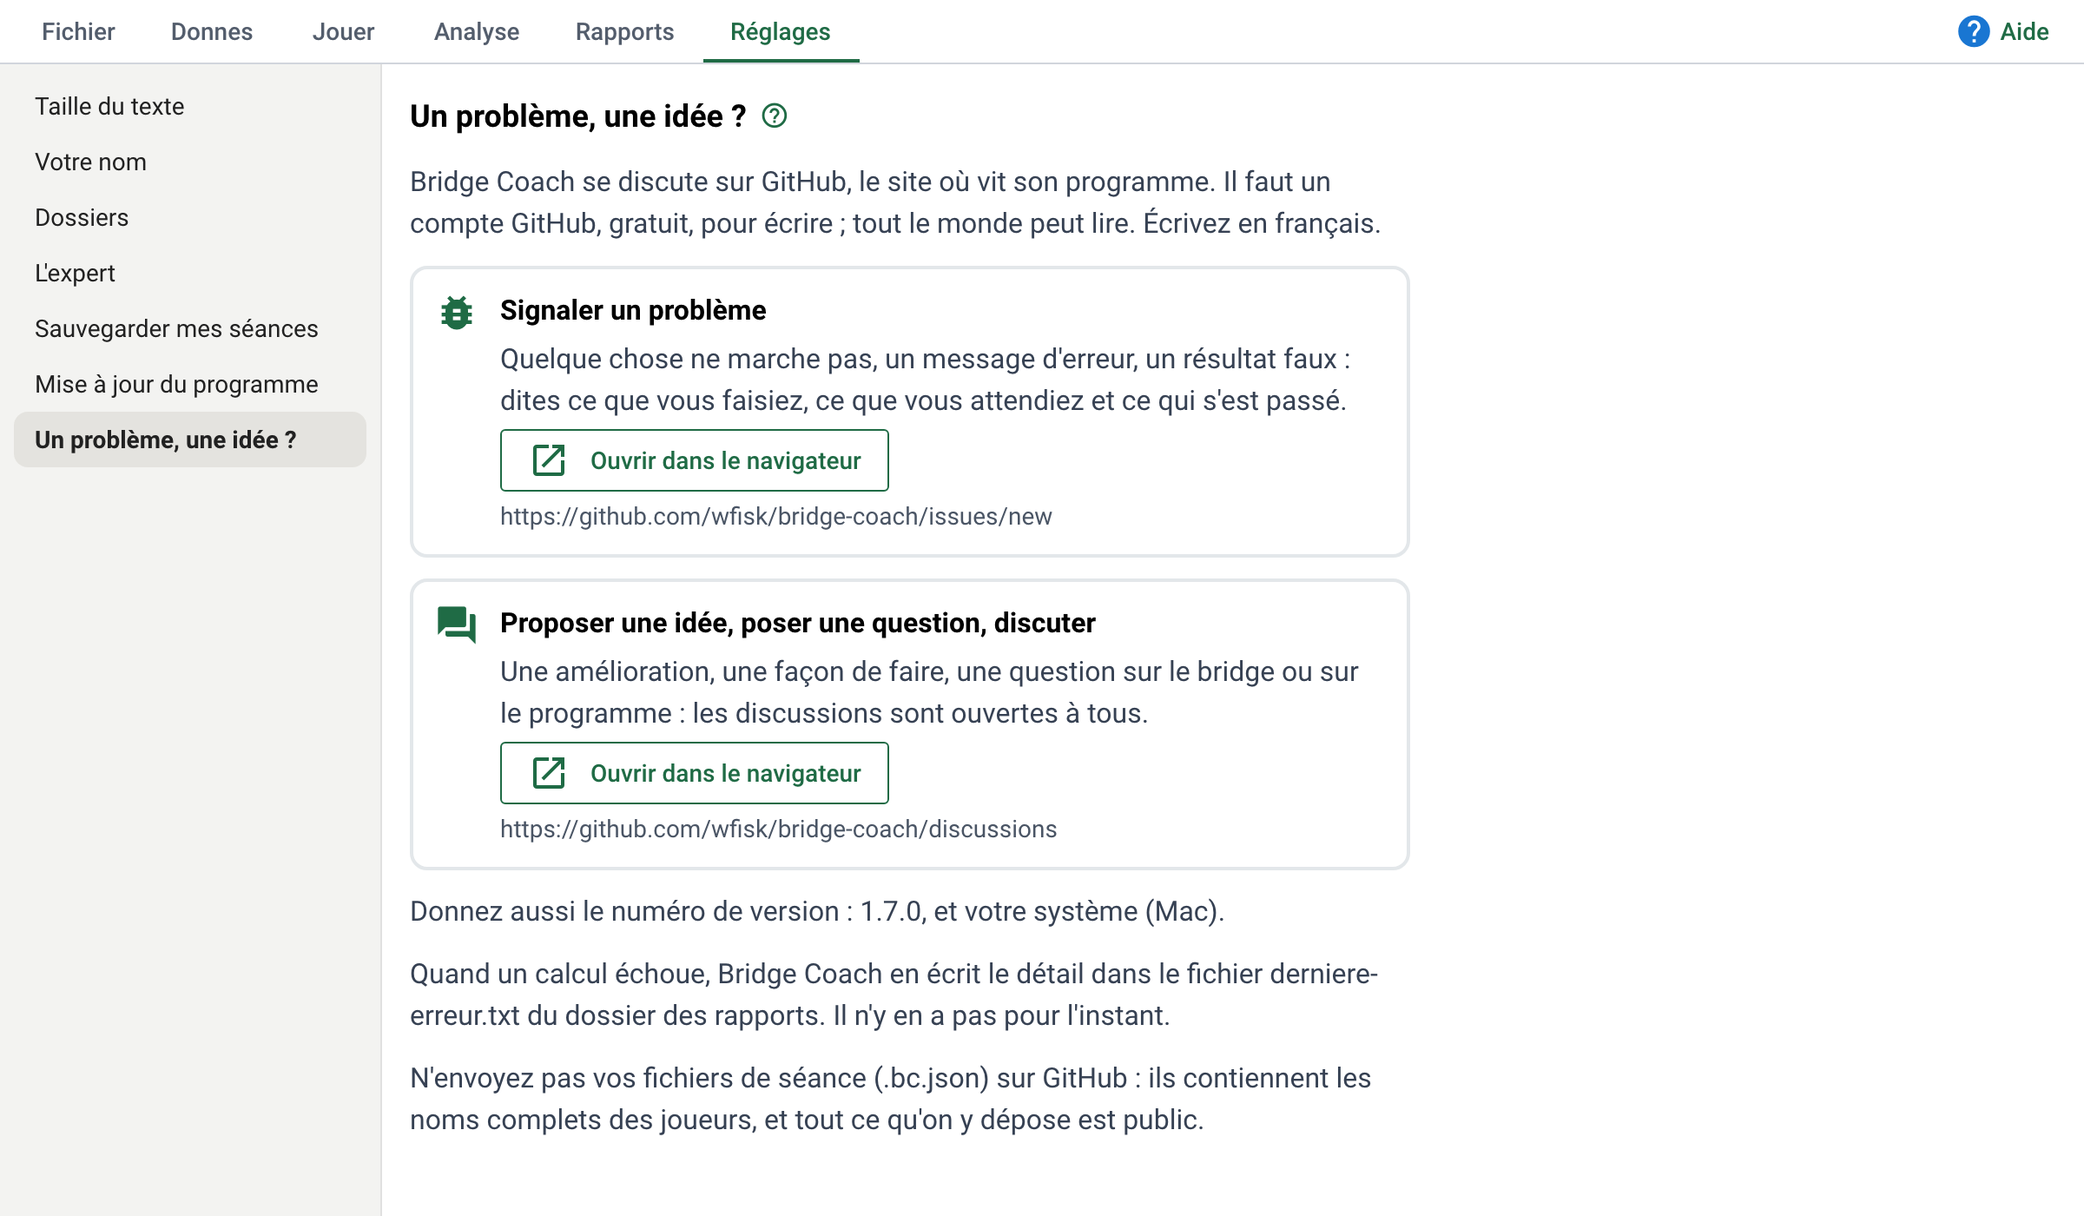
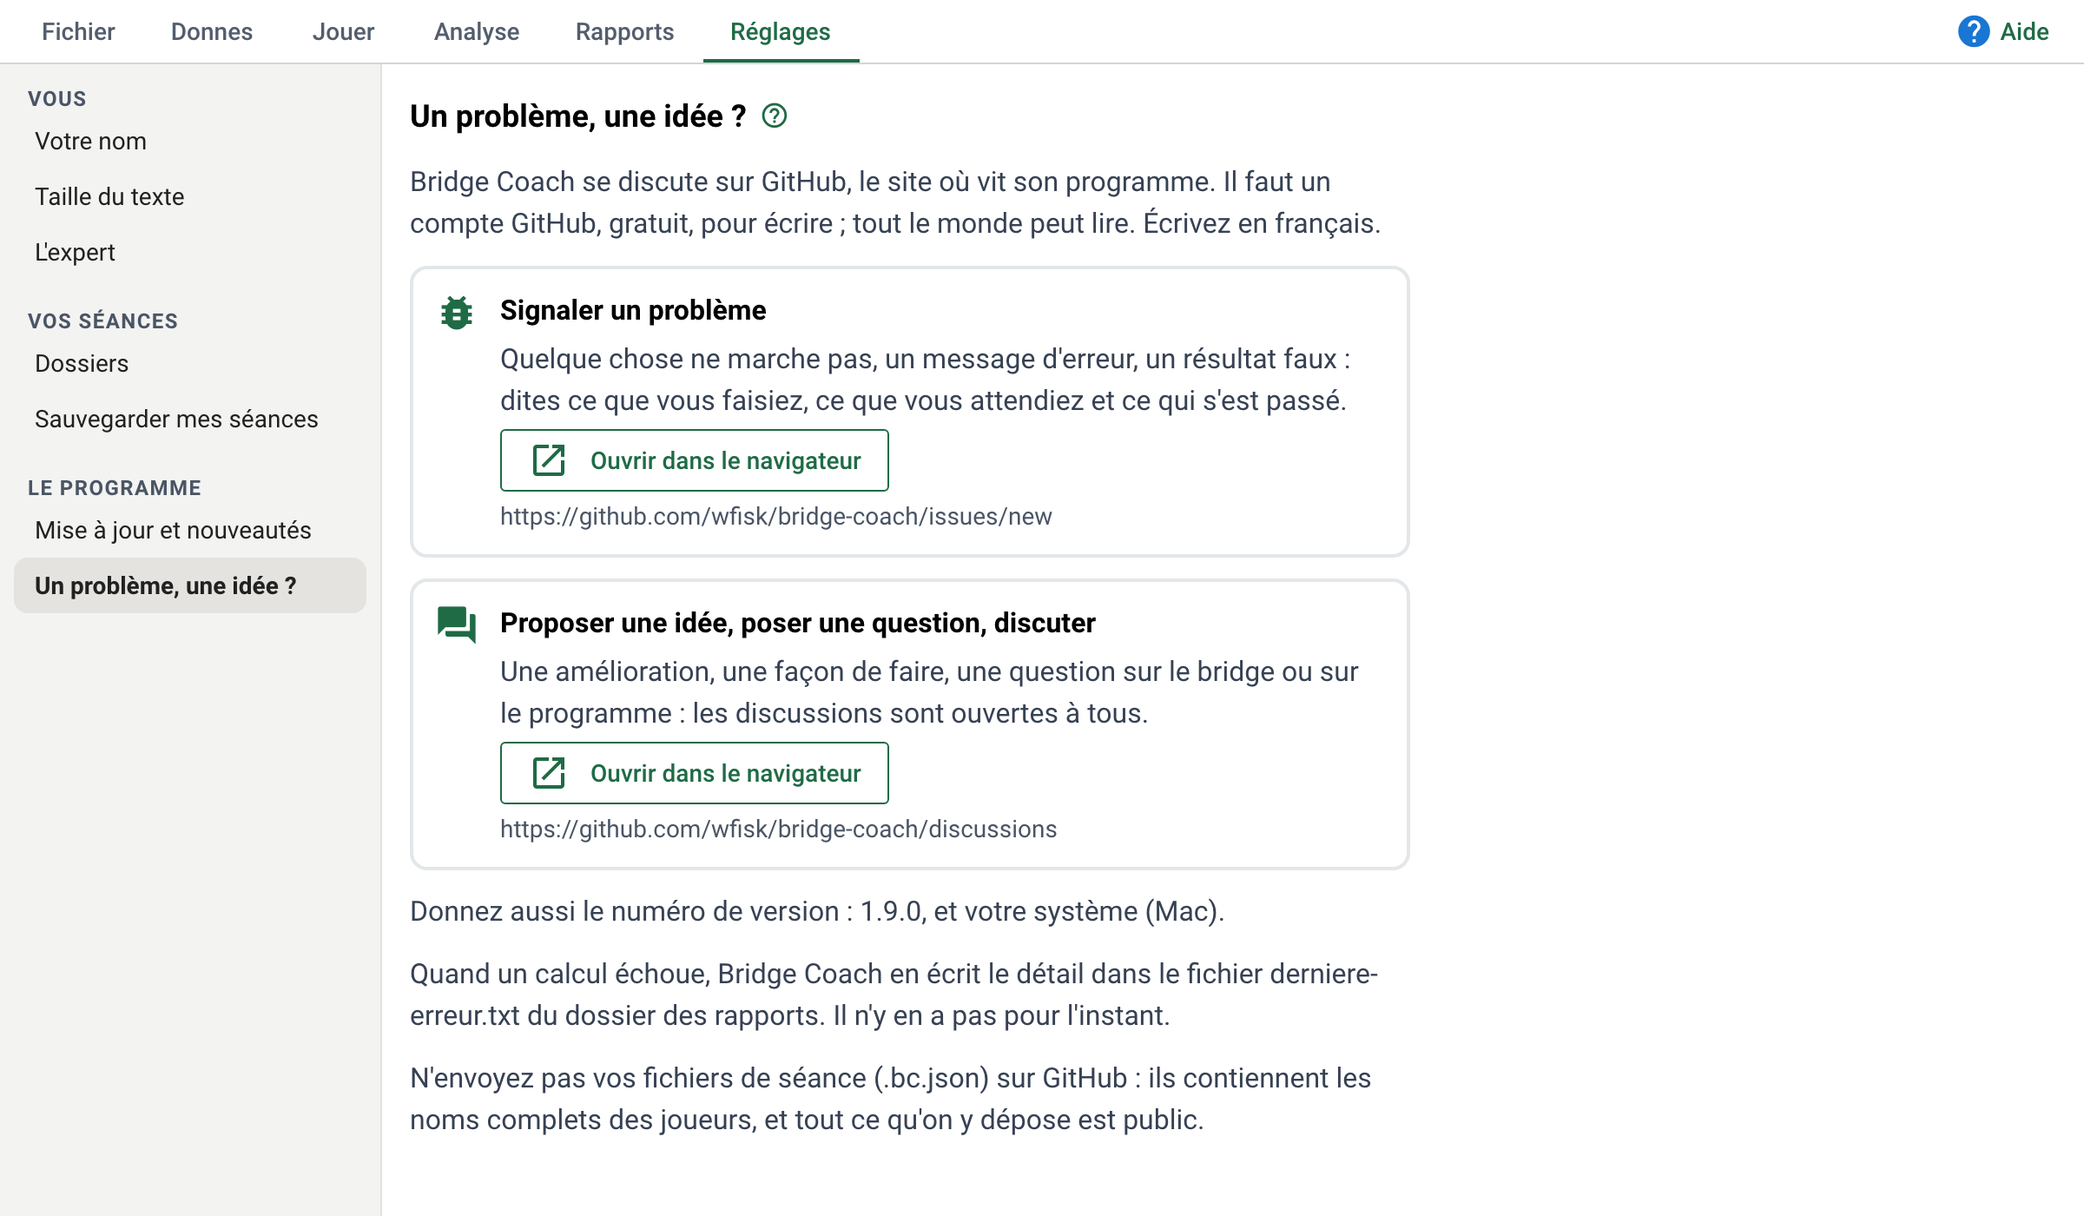
Members' changelog: every version since 1.0 with its date, under the update button (Réglages › Mise à jour et nouveautés), linked from « Quoi de neuf »; Réglages sidebar grouped under Vous, Vos séances, Le programme

Changed region(s): [[0.0, 0.0614, 0.1562, 0.3686], [0.0, 0.3993, 0.1562, 0.4914]]

diff --git a/help/nouveautes.html b/help/nouveautes.html
@@ -1,21 +1,29 @@
-<!-- Quoi de neuf : une section par version, la plus récente en haut, en français, pour les membres. Après une mise à
-     jour, Bridge Coach montre une fois les sections plus récentes que la dernière version vue (app.nouveautes).
-     À compléter avant chaque ./publier.sh. -->
+<!-- Les nouveautés de Bridge Coach, pour les membres : une section par version, la plus récente en haut, en français
+     simple, avec sa date (data-date, AAAA-MM-JJ). Après une mise à jour, Bridge Coach montre une fois les sections plus
+     récentes que la dernière version vue (« Quoi de neuf », app.nouveautes) ; Réglages, Mise à jour et nouveautés, les
+     montre toutes (« Toutes les nouveautés »). À compléter avant chaque ./publier.sh. -->
 
-<section data-version="1.9.0">
+<section data-version="1.9.1" data-date="2026-11-12">
+<ul>
+  <li><b>Réglages</b>, <b>Mise à jour et nouveautés</b> : ce qui a changé à chaque version, depuis la première.</li>
+  <li>Les pages des <b>Réglages</b> rangées en trois groupes : vous, vos séances, le programme.</li>
+</ul>
+</section>
+
+<section data-version="1.9.0" data-date="2026-11-12">
 <ul>
   <li>Bridge Coach vous reconnaît par votre <b>numéro de licence FFB</b> : vos tables sont trouvées même si votre nom est écrit autrement d'un tournoi à l'autre. <b>Réglages</b>, <b>Votre nom</b> le montre.</li>
   <li>Après votre premier import, Bridge Coach vous demande qui vous êtes : c'est facultatif, vous pouvez rester « inconnu ».</li>
 </ul>
 </section>
 
-<section data-version="1.8.1">
+<section data-version="1.8.1" data-date="2026-11-12">
 <ul>
   <li><b>Demander à l'expert</b> : l'expert commence par montrer la donne, compacte et lisible (le numéro, le donneur, la vulnérabilité, le contrat, les mains comme à la table avec les cœurs et les carreaux en rouge, puis les enchères), avant de vous demander ce que vous voulez savoir.</li>
 </ul>
 </section>
 
-<section data-version="1.8.0">
+<section data-version="1.8.0" data-date="2026-11-12">
 <ul>
   <li><b>Demander à l'expert</b>, dans <b>Jouer</b> et <b>Analyse</b> : posez vos questions sur une donne à l'expert (Claude, ou l'outil de votre choix dans <b>Réglages</b>, <b>L'expert</b>). Il vous salue par votre prénom.</li>
   <li>Le bouton <b>Aide</b> ouvre l'aide à la page où vous êtes, et un petit <b>?</b> bleu à côté des titres fait de même.</li>
@@ -26,12 +34,84 @@
 </ul>
 </section>
 
-<section data-version="1.7.0">
+<section data-version="1.7.0" data-date="2026-11-12">
 <ul>
   <li>Un titre et un nom proposés quand vous importez un tournoi.</li>
   <li><b>Fichier</b>, <b>Infos</b> : renommer, dupliquer ou mettre une séance à la corbeille.</li>
   <li><b>Fichier</b>, <b>Exporter…</b> : vers Excel, CSV ou PBN.</li>
   <li><b>Réglages</b>, <b>Sauvegarder mes séances</b> : toutes vos séances dans un seul fichier.</li>
   <li>Une aide refaite, plus simple et illustrée.</li>
+</ul>
+</section>
+
+<section data-version="1.6.0" data-date="2026-11-11">
+<ul>
+  <li><b>Jouer</b> : trois modes, <b>Jouer</b>, <b>Revoir</b> (votre partie rejouée carte par carte, avec ce que pensaient les robots) et <b>Démo</b> (une donne pas à pas sur grand écran, pour un cours).</li>
+  <li>Le <b>classement</b> du tournoi rejoué : où vous seriez classé face au club.</li>
+  <li>À la fin de chaque donne, un bilan et <b>Voir pourquoi</b>, qui montre la carte qui a coûté une levée.</li>
+  <li>Une table plus vraie : les plis ramassés par celui qui les gagne, une carte impossible qui tremble.</li>
+  <li>Rapports : <b>Où vous pouviez faire mieux</b> et les donnes à revoir.</li>
+</ul>
+</section>
+
+<section data-version="1.5.0" data-date="2026-11-10">
+<ul>
+  <li>Des rapports plus lisibles : un texte plus grand, en colonnes, avec les tours et vos adversaires.</li>
+  <li>La marque, match-points ou IMP, lue dans le tournoi et corrigeable.</li>
+  <li>L'expert commente le conseil du coach ; un rapport pour chaque paire.</li>
+</ul>
+</section>
+
+<section data-version="1.4.0" data-date="2026-11-09">
+<ul>
+  <li><b>Le conseil du coach</b> : Bridge Coach commente chaque donne, plan de jeu et défense.</li>
+  <li>Un seul rapport d'analyse, avec ou sans l'avis de l'expert.</li>
+  <li>L'import des fichiers <b>PBN</b>.</li>
+  <li>Jouer : les cartes glissent jusqu'à la table, et la table tourne quand vous jouez le déclarant depuis la place du mort.</li>
+</ul>
+</section>
+
+<section data-version="1.3.1" data-date="2026-11-09">
+<ul>
+  <li>Jouer : la carte jouée glisse jusqu'à la table, le nombre de vos levées s'affiche devant vous, et l'onglet s'ouvre plus vite.</li>
+</ul>
+</section>
+
+<section data-version="1.3.0" data-date="2026-11-09">
+<ul>
+  <li>Enchères : les interventions bicolores (Michaels et 2SA), et des soutiens plus justes sur les deux faibles et les barrages.</li>
+  <li>Jouer : le déclarant des robots coupe ses perdantes au mort.</li>
+</ul>
+</section>
+
+<section data-version="1.2.1" data-date="2026-11-08">
+<ul>
+  <li>Jouer : vos cartes s'éclairent en jaune quand c'est à vous.</li>
+</ul>
+</section>
+
+<section data-version="1.2.0" data-date="2026-11-08">
+<ul>
+  <li>Jouer : chaque carte jouée posée devant son joueur, et une table plus large en défense.</li>
+</ul>
+</section>
+
+<section data-version="1.1.1" data-date="2026-11-08">
+<ul>
+  <li>Correction de l'installateur pour Mac.</li>
+</ul>
+</section>
+
+<section data-version="1.1.0" data-date="2026-11-08">
+<ul>
+  <li>Jouer en <b>défense</b>, et ce que pensent les robots.</li>
+  <li>Une nouvelle page pour créer des donnes d'entraînement.</li>
+  <li>Les <b>installateurs</b> pour Windows et Mac.</li>
+</ul>
+</section>
+
+<section data-version="1.0" data-date="2026-11-06">
+<ul>
+  <li>La première version pour les membres du club : importer un tournoi Bridgemate, l'analyser, créer les rapports, et rejouer les donnes. Les mises à jour se font depuis l'onglet <b>Réglages</b>.</li>
 </ul>
 </section>

diff --git a/help/index.html b/help/index.html
@@ -283,16 +283,25 @@
 <p>Bridge Coach arrive sur le Bureau. Au premier lancement sur Mac, acceptez l'accès au dossier Documents.</p>
 
 <h3 id="mise-a-jour">Mettre à jour</h3>
-<p>Onglet <b>Réglages</b>, <b>Mise à jour du programme</b>, <b>Rechercher une mise à jour</b>. S'il y en a une, <b>Mettre à jour vers …</b> : Bridge Coach se ferme, se met à jour en une minute environ et se rouvre. Vos séances et vos rapports ne changent pas.</p>
+<p>Onglet <b>Réglages</b>, <b>Mise à jour et nouveautés</b>, <b>Rechercher une mise à jour</b>. S'il y en a une, <b>Mettre à jour vers …</b> : Bridge Coach se ferme, se met à jour en une minute environ et se rouvre. Vos séances et vos rapports ne changent pas.</p>
+<p>Après la mise à jour, une petite fenêtre dit ce qui a changé. La même page, <b>Mise à jour et nouveautés</b>, montre en dessous ce qui a changé à chaque version, la plus récente en haut.</p>
 
 <h3 id="reglages">Les réglages</h3>
+<p>Les pages de l'onglet <b>Réglages</b> sont rangées en trois groupes.</p>
+<p><b>Vous</b></p>
 <dl>
-  <dt>Taille du texte</dt><dd>Normale, Grande ou Très grande : toute la fenêtre grandit.</dd>
   <dt>Votre nom</dt><dd>Qui utilise Bridge Coach : votre nom tel que l'écrit la FFB, et votre licence. Votre table est surlignée partout et votre nom vient en premier dans les listes de joueurs.</dd>
-  <dt>Dossiers</dt><dd>Le dossier de Bridgemate (où lire les tournois) et votre dossier de travail. <b>Modifier les réglages</b> ouvre un petit fichier de texte : changez le dossier, enregistrez, puis fermez et rouvrez Bridge Coach.</dd>
+  <dt>Taille du texte</dt><dd>Normale, Grande ou Très grande : toute la fenêtre grandit.</dd>
   <dt>L'expert</dt><dd>L'adresse de l'outil d'intelligence artificielle (claude.ai par défaut) et le prénom par lequel il vous salue.</dd>
+</dl>
+<p><b>Vos séances</b></p>
+<dl>
+  <dt>Dossiers</dt><dd>Le dossier de Bridgemate (où lire les tournois) et votre dossier de travail. <b>Modifier les réglages</b> ouvre un petit fichier de texte : changez le dossier, enregistrez, puis fermez et rouvrez Bridge Coach.</dd>
   <dt>Sauvegarder mes séances</dt><dd>Un fichier <code>.zip</code> de toutes vos séances (voir « Importer et ranger vos séances »).</dd>
-  <dt>Mise à jour du programme</dt><dd>La version installée, et la recherche d'une nouvelle version.</dd>
+</dl>
+<p><b>Le programme</b></p>
+<dl>
+  <dt>Mise à jour et nouveautés</dt><dd>La version installée, la recherche d'une nouvelle version, et ce qui a changé à chaque version.</dd>
   <dt>Un problème, une idée ?</dt><dd>Signaler un problème ou proposer une idée (ci-dessous).</dd>
 </dl>
 

diff --git a/src/app.py b/src/app.py
@@ -558,14 +558,27 @@ NOUVEAUTES = os.path.join(rapport.RACINE, "help", "nouveautes.html")
 
 def nouveautes(depuis, jusqua):
     """[(version, html)] des sections de help/nouveautes.html plus récentes que depuis, jusqu'à jusqua comprise."""
+    return [(v, h) for v, _, h in toutes_nouveautes() if maj.cle(depuis) < maj.cle(v) <= maj.cle(jusqua)]
+
+
+def toutes_nouveautes():
+    """[(version, date « AAAA-MM-JJ » ou "", html)] de help/nouveautes.html, la plus récente d'abord."""
     try:
         t = open(NOUVEAUTES, encoding="utf-8").read()
     except OSError:
         return []
-    out = []
-    for v, h in re.findall(r'<section data-version="([^"]+)">(.*?)</section>', t, re.S):
-        if maj.cle(depuis) < maj.cle(v) <= maj.cle(jusqua): out.append((v, h.strip()))
-    return out
+    out = [(v, d, h.strip()) for v, d, h in
+           re.findall(r'<section data-version="([^"]+)"(?: data-date="([^"]*)")?>(.*?)</section>', t, re.S)]
+    return sorted(out, key=lambda x: maj.cle(x[0]), reverse=True)
+
+
+def date_en_mots(iso):
+    """« 2026-11-12 » → « 12 novembre 2026 »."""
+    try:
+        d = datetime.date.fromisoformat(iso)
+        return f"{'1er' if d.day == 1 else d.day} {fichiers.MOIS[d.month - 1]} {d.year}"
+    except (ValueError, TypeError):
+        return ""
 
 
 def rappel_sauvegarde(n_seances, maintenant=None):
@@ -3203,12 +3216,16 @@ def page():
     PAGES = {"Fichier": [("nouveau", "Nouveau"), ("ouvrir", "Ouvrir une séance"),   # (Importer : une des trois façons de Nouveau)
                          ("infos", "Infos"), ("exporter", "Exporter…"), ("dossier", "Ouvrir le dossier de travail")],
              "Rapports": [("creer", "Créer les rapports"), ("seance", "Rapports de la séance")],   # (le bilan : bilan.py, à la main)
-             "Réglages": [("affichage", "Taille du texte"), ("nom", "Votre nom"), ("dossiers", "Dossiers"), ("expert", "L'expert"), ("sauvegarde", "Sauvegarder mes séances"), ("maj", "Mise à jour du programme"),
-                          ("contact", "Un problème, une idée ?")]}     # la barre de gauche de ces onglets
+             "Réglages": [("nom", "Votre nom"), ("affichage", "Taille du texte"), ("expert", "L'expert"),
+                          ("dossiers", "Dossiers"), ("sauvegarde", "Sauvegarder mes séances"),
+                          ("maj", "Mise à jour et nouveautés"), ("contact", "Un problème, une idée ?")]}     # la barre de gauche de ces onglets
+    # les intertitres de la barre de Réglages : vous, vos séances, le programme (l'utilisateur, 2026-11-12 : un peu d'ordre)
+    GROUPES_PAGES = {"Réglages": {"nom": "Vous", "dossiers": "Vos séances", "maj": "Le programme"}}
     vue_page = {"Fichier": "nouveau" if PAGE.get("fichier") == "importer" else
                            PAGE.get("fichier") if PAGE.get("fichier") in ("nouveau", "ouvrir", "infos", "exporter", "dossier") else "ouvrir",
                 "Rapports": PAGE.get("rapports") if PAGE.get("rapports") in ("creer", "seance") else "creer",
-                "Réglages": PAGE.get("reglages") if PAGE.get("reglages") in ("affichage", "nom", "dossiers", "expert", "sauvegarde", "maj", "contact") else "affichage"}
+                "Réglages": PAGE.get("reglages") if PAGE.get("reglages") in ("affichage", "nom", "dossiers", "expert", "sauvegarde", "maj", "contact") else
+                    "maj" if PAGE.get("reglages") == "nouveautes" else "affichage"}
 
     facon = {"k": PAGE.get("nouveau") if PAGE.get("nouveau") in ("bws", "pbn", "themes") else   # Fichier, Nouveau : la façon choisie
              ("bws" if PAGE.get("fichier") == "importer" else "themes")}
@@ -3402,7 +3419,11 @@ def page():
     def barre_seance():
         if onglet_a_pages():                              # Rapports, Réglages : une entrée par page
             nom = onglet_a_pages()
-            for cle, titre in PAGES[nom]:
+            for k_, (cle, titre) in enumerate(PAGES[nom]):
+                groupe = GROUPES_PAGES.get(nom, {}).get(cle)
+                if groupe:                                  # l'intertitre d'un groupe de pages, petit et discret
+                    ui.label(groupe).classes("text-xs text-gray-600 uppercase font-bold px-2 " + ("mt-1" if k_ == 0 else "mt-4")) \
+                        .style("letter-spacing:.06em")
                 ui.button(titre, on_click=lambda c=cle: voir_page(nom, c)).props("flat no-caps align=left dense color=grey-10") \
                     .classes("entree-barre text-left" + (" choisie" if vue_page[nom] == cle else ""))
             return
@@ -3694,7 +3715,7 @@ def page():
                          "joueurs, et tout ce qu'on y dépose est public.").classes("text-base text-gray-700")
 
               with ui.column().classes("w-full gap-3") as pages_ui["maj"]:
-                titre_page("Mise à jour du programme", "mise-a-jour")
+                titre_page("Mise à jour et nouveautés", "mise-a-jour")
                 ui.label(f"Bridge Coach, version {maj.version_locale()}").classes("text-base font-bold")
                 with ui.row().classes("items-center gap-3"):
                     ui.button("Rechercher une mise à jour", on_click=lambda: chercher_maj()).props("outline")
@@ -3707,6 +3728,12 @@ def page():
                     if lignes_j:
                         le = datetime.datetime.fromtimestamp(os.path.getmtime(journal)).strftime("%d/%m/%Y")   # pas « quand » : la fonction
                         ui.label(f"Dernière mise à jour, le {le} : {lignes_j[0]} — {lignes_j[-1]}").classes("text-base text-gray-700")
+                ui.label("Ce qui a changé, version par version").classes("text-base font-bold mt-4")   # les nouveautés de chaque version
+                installee = maj.version_locale()
+                for k_, (v, d_, h) in enumerate(toutes_nouveautes()):
+                    titre_v = f"Version {v}" + (f" · {date_en_mots(d_)}" if d_ else "") + ("  (la vôtre)" if maj.cle(v) == maj.cle(installee) else "")
+                    with ui.expansion(titre_v, value=k_ == 0).classes("w-full").props("dense header-class='text-base font-bold'"):
+                        ui.html(h, sanitize=False).classes("aide pb-2")
 
             montrer_pages()                                # chaque onglet à pages s'ouvre sur sa première page
 
@@ -4453,7 +4480,8 @@ def page():
                     if len(neuf) > 1: ui.label(f"Version {v}").classes("text-base font-bold text-gray-700 mt-1")
                     ui.html(h, sanitize=False).classes("aide")
                 with ui.row().classes("gap-3 justify-end w-full mt-2"):
-                    ui.button("Voir l'aide", icon="help", on_click=lambda: (quoi_neuf.close(), ouvrir_aide("premiere-fois"))).props("flat")
+                    ui.button("Toutes les nouveautés", icon="history",
+                              on_click=lambda: (quoi_neuf.close(), onglets.set_value(o_reglages), voir_page("Réglages", "maj"))).props("flat")
                     ui.button("C'est noté", on_click=lambda: quoi_neuf.close()).props("unelevated")
             ui.timer(1.0, quoi_neuf.open, once=True)
     ui.timer(.4, rafraichir)

diff --git a/tests/test_app.py b/tests/test_app.py
@@ -206,3 +206,11 @@ assert app.rappel_sauvegarde(2) is None and "jamais" in app.rappel_sauvegarde(3)
 app.ecrire_etat(sauvegarde_le="2026-10-01T10:00:00")
 assert app.rappel_sauvegarde(5, _dt.datetime(2026, 10, 20)) is None
 assert "6 semaines" in app.rappel_sauvegarde(5, _dt.datetime(2026, 11, 12, 12))
+
+# toutes les nouveautés : chaque version publiée a sa section datée, la plus récente d'abord
+toutes = app.toutes_nouveautes()
+assert [v for v, _, _ in toutes] == sorted([v for v, _, _ in toutes], key=app.maj.cle, reverse=True)
+assert all(d and h for _, d, h in toutes) and app.date_en_mots("2026-11-12") == "12 novembre 2026"
+import subprocess
+etiquettes = subprocess.run(["git", "tag"], capture_output=True, text=True, cwd=rapport.RACINE).stdout.split()
+assert {e[1:] for e in etiquettes if e.startswith("v")} <= {v for v, _, _ in toutes}, "une version publiée sans nouveautés"

diff --git a/CLAUDE.md b/CLAUDE.md
@@ -449,8 +449,11 @@ A Python program that opens a Bridgemate `.bws` file and produces a PDF report.
                         default https://claude.ai/new; also used by Analyse expert's steps) and the first name the expert may use
                         (etat expert_prenom, default the first name of « Votre nom »; the only name that leaves the computer, the
                         user's choice 2026-11-12). tests/test_question_expert.py
-    help/nouveautes.html « Quoi de neuf », one <section data-version> per version: shown once after an update (etat.json
-                        version_vue; app.nouveautes). Fill it in before each ./publier.sh
+    help/nouveautes.html the members' changelog, one <section data-version="X.Y.Z" data-date="AAAA-MM-JJ"> per version since
+                        1.0, newest first, in plain French: shown once after an update (« Quoi de neuf », etat.json version_vue;
+                        app.nouveautes), and all of them under the update button in Réglages › Mise à jour et nouveautés
+                        (app.toutes_nouveautes; the two were combined, the user's choice 2026-11-12). Fill it in before each
+                        ./publier.sh: tests/test_app.py fails when a published tag has no section
     docs/bridge-analysis/  earlier session's instructions (kept in step with the rules below) and
                         original scripts (reference)
     systems/            bidding systems: one folder per system + shared conventions/,
